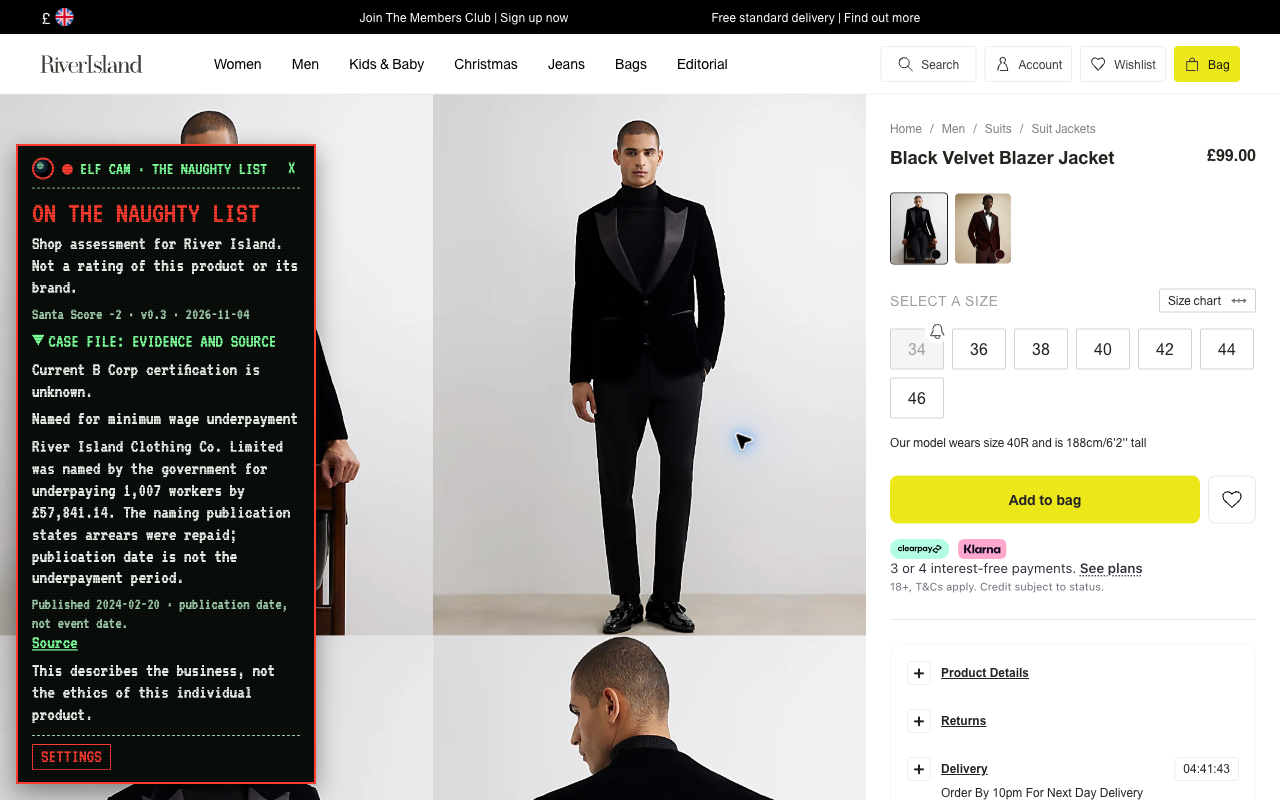
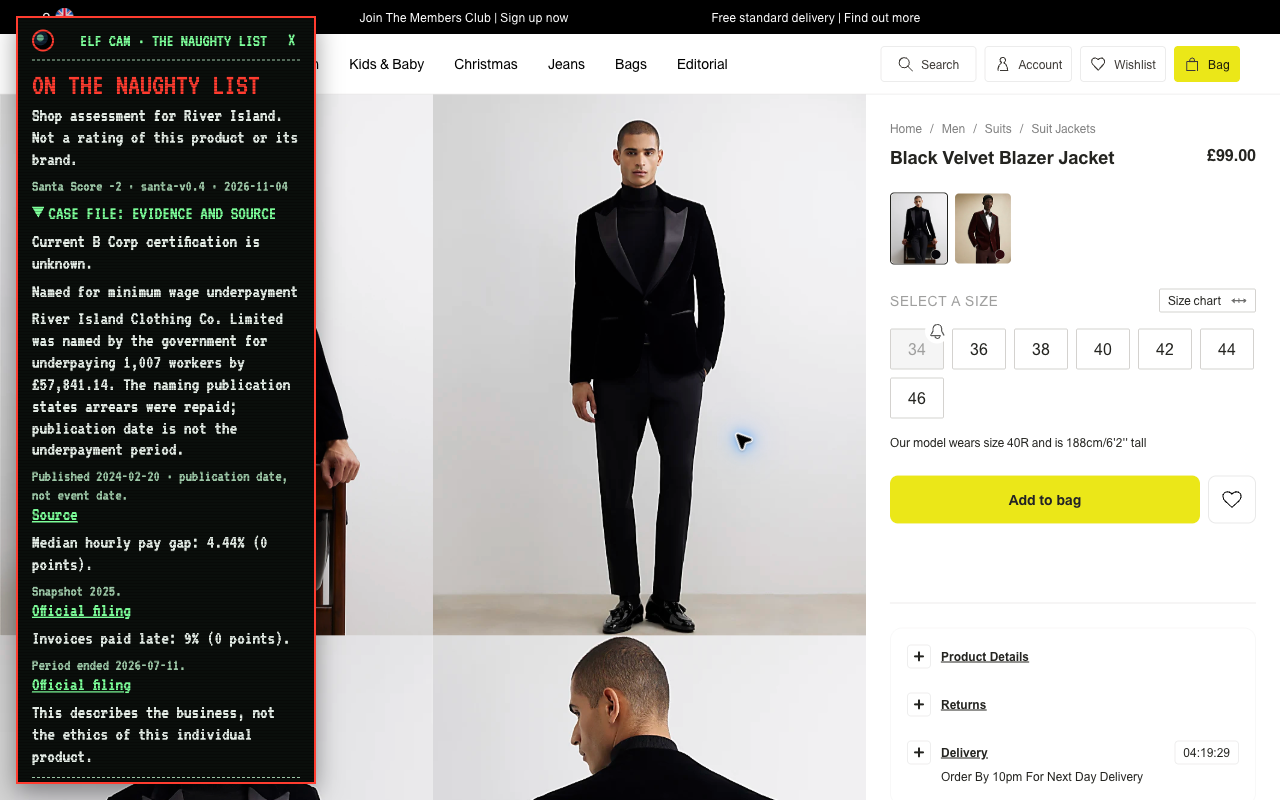
Refresh all verdict screenshots against the live v0.4 API

diff --git a/extension/content.js b/extension/content.js
@@ -35,7 +35,7 @@
     } catch { /* Fallback font. */ }
   })();
   const ELF_CSS = `:host{color-scheme:dark}*{box-sizing:border-box}
-section{--c:#d5ddd7;--ph:#7dff9a;--soft:#9cc7a6;--rec:#ff3b30;position:relative;font:19px/1.15 "${FONT}",ui-monospace,Menlo,Consolas,monospace;color:#e6efe8;background:#0a0e0b;border:2px solid var(--c);padding:10px 14px 12px;box-shadow:0 8px 24px #0006}
+section{max-height:calc(100vh - 32px);overflow:auto;--c:#d5ddd7;--ph:#7dff9a;--soft:#9cc7a6;--rec:#ff3b30;position:relative;font:19px/1.15 "${FONT}",ui-monospace,Menlo,Consolas,monospace;color:#e6efe8;background:#0a0e0b;border:2px solid var(--c);padding:10px 14px 12px;box-shadow:0 8px 24px #0006}
 section::after{content:"";position:absolute;inset:0;pointer-events:none;background:repeating-linear-gradient(0deg,rgba(0,0,0,.28) 0 1px,transparent 1px 3px)}
 section[data-tone=nice]{--c:#7dff9a}section[data-tone=naughty]{--c:#ff3b30}
 header{display:flex;align-items:center;gap:8px;text-transform:uppercase;color:var(--ph);border-bottom:1px dashed var(--soft);padding-bottom:6px}
@@ -186,8 +186,6 @@ b{position:absolute;top:28px;font-weight:400;background:#0a0e0b;color:#7dff9a;pa
       for (const evidence of assessment.evidence ?? []) {
         if (evidence.title === 'B Corp certification') continue;
         element('p', `${evidence.title}${evidence.freshness === 'stale' ? ' (historical or needs refreshing)' : ''}`, detail);
-        if (evidence.summary) element('p', evidence.summary, detail);
-        if (evidence.publishedAt) element('small', `Published ${evidence.publishedAt.slice(0, 10)}${!evidence.eventDate ? ' · publication date, not event date' : ''}.`, detail);
         if (evidence.summary) element('p', evidence.summary, detail);
         if (evidence.publishedAt) element('small', `Published ${evidence.publishedAt.slice(0, 10)}${!evidence.eventDate ? ' · publication date, not event date' : ''}.`, detail);
         addLink(detail, 'Source', evidence.sourceUrl);

diff --git a/publishing/listing-review.md b/publishing/listing-review.md
@@ -67,3 +67,11 @@ Naughty source: https://www.gov.uk/government/news/over-500-companies-named-for-
 River Island is explicitly a shop assessment, not a rating of the displayed product or its brand. Its expanded case file preserves the historical publication date and repayment context.
 
 Chrome store package/gallery updates remain pending; Firefox remains held and unsubmitted.
+
+## Final v0.4 captures and 0.0.5 package
+
+The latest main-based API is deployed as Worker version `815796e0-4e1e-4967-b506-cfb70064f30d`. The approved community migration check reported no outstanding migrations. Exact reviewed filing lookups were added for FatFace and River Island: FatFace is Nice at 0 (B Corp +1, pay-gap report −1, payment report 0); River Island is Naughty at −2 with a neutral report card. Community opinion remains separate.
+
+The four verdict images above have now been replaced with fresh captures against `santa-v0.4`, using installed Chrome extension 0.0.5. The primary screenshots show no insufficient-evidence heading. Expanded case files show official filing links and the River Island publication/repayment context. Tall case files scroll within the viewport. These are the current store-gallery assets, superseding the earlier v0.3 capture record.
+
+All 76 automated checks pass locally. Chrome draft package and gallery are being updated; Firefox submission remains explicitly held.
